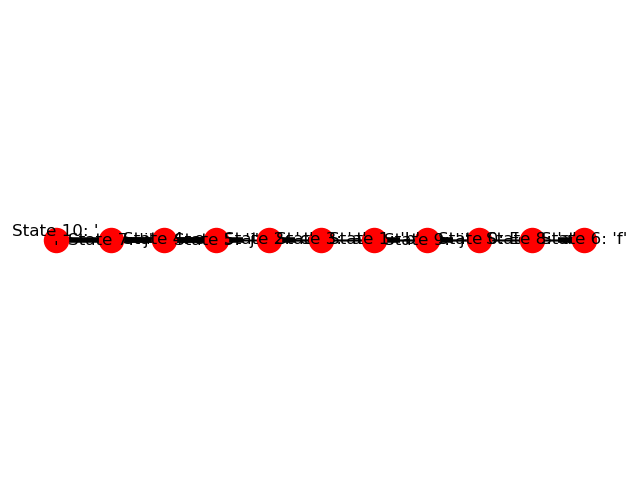
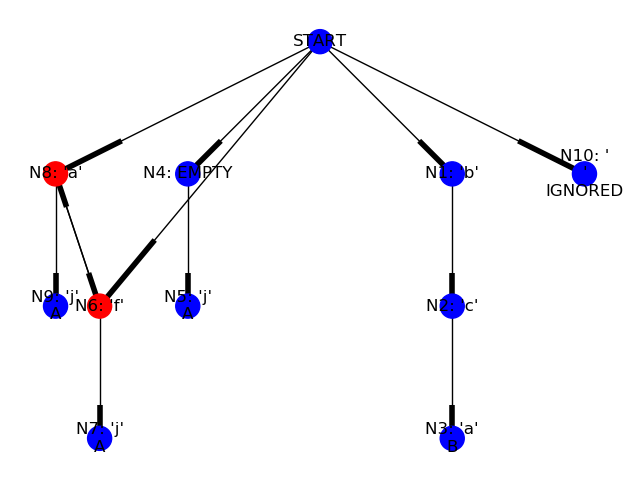
change node color to indicate self loop in visual

diff --git a/src/Visual/visual_lexer.py b/src/Visual/visual_lexer.py
@@ -1,5 +1,6 @@
 import networkx
 import matplotlib.pyplot as pyplot
+from networkx.drawing.nx_agraph import write_dot
 
 
 def plot_lexer_automata(fsa):
@@ -32,22 +33,45 @@ def plot_lexer_automata(fsa):
     relabel = {}
     unique_id = 0
     for node in nodes:
+        str_unique_id = str(unique_id)
+
         if node.current_state == "":
-            relabel[id(node)] = "State " + str(unique_id) + ": E"
+            label = "START"
         elif node.current_state == -1:
-            relabel[id(node)] = "State " + str(unique_id) + ": e"
+            label = "EMPTY"
         else:
-            relabel[id(node)] = "State " + str(unique_id) + ": '" + chr(node.current_state) + "'"
+            label = "'" + chr(node.current_state) + "'"
+
+        if label != "START":
+            label = "N" + str_unique_id + ": " + label
+
+            if node.terminal_token:
+                if isinstance(node.terminal_token, str):
+                    label += "\n" + node.terminal_token
+                elif hasattr(node.terminal_token, '__call__'):
+                    label += "\nfn: " + node.terminal_token.__name__
+                else:
+                    label += "\n" + "IGNORED"
+
+        relabel[id(node)] = label
 
         unique_id += 1
 
     graph = networkx.relabel_nodes(graph, relabel)
 
-    networkx.draw(graph, pos=hierarchy_pos(graph), with_labels=True)
+    # Change color of nodes with self loops so they are visible with Networkx
+    # TODO: Update the drawing to used Graphviz and have actual self loops
+    loops = graph.nodes_with_selfloops()
+    colors = {node: 'r' for node in loops}
+
+    color_map = [colors.get(node, 'b') for node in graph.nodes()]
+
+    networkx.draw(graph, pos=hierarchy_pos(graph, "START"), with_labels=True, node_color=color_map)
     pyplot.savefig("visual_lexer.png")
 
 
 ###################
+# http://stackoverflow.com/questions/29586520/can-one-get-hierarchical-graphs-from-networkx-with-python-3
 
 def hierarchy_pos(G, root, width=1., vert_gap = 0.2, vert_loc = 0, xcenter = 0.5 ):
     '''If there is a cycle that is reachable from root, then result will not be a hierarchy.
@@ -69,8 +93,6 @@ def hierarchy_pos(G, root, width=1., vert_gap = 0.2, vert_loc = 0, xcenter = 0.5
             else:
                 pos[root] = (xcenter, vert_loc)
             neighbors = G.neighbors(root)
-            if parent != None:
-                neighbors.remove(parent)
             if len(neighbors)!=0:
                 dx = width/len(neighbors)
                 nextx = xcenter - width/2 - dx/2
